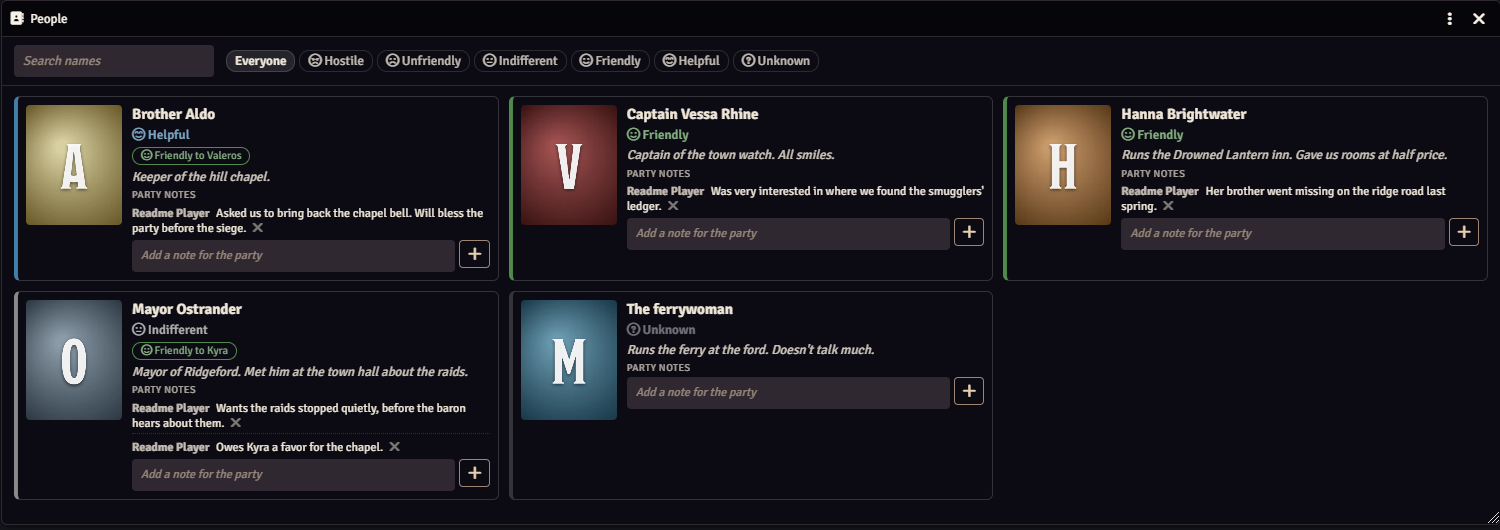
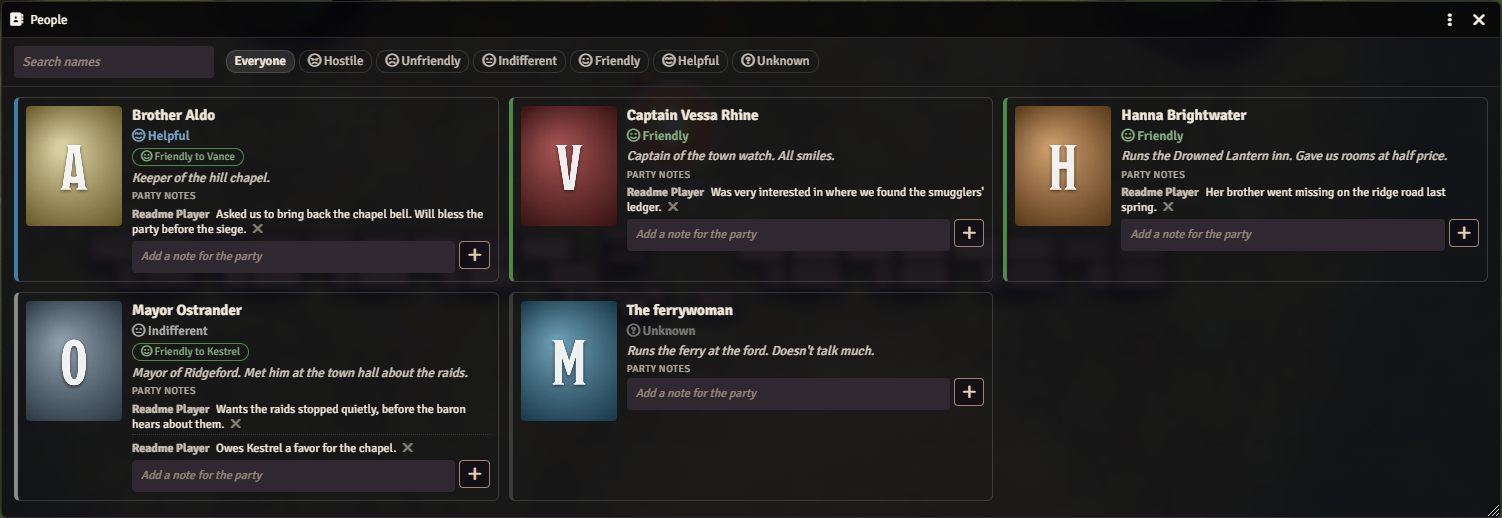
README: invented example names and new pictures; Pathfinder note replaces Community Use
Claude-Session: https://claude.ai/code/session_019VWK98TqAayb9sPMxWGaKx

diff --git a/README.md b/README.md
@@ -40,7 +40,7 @@ Token controls on the left: the address-book icon at the bottom of the list. Mac
 - **Chips**: "Met only" hides NPCs the party hasn't met; "Cast" shows only actors your campaign module marks as Cast: list that module's id in the "Cast flag scopes" setting (empty by default), and any actor with `flags.<id>.cast` set counts. Both are remembered in this browser.
 - Attitude is the NPC's real attitude. "Players see" is what the party is shown: the same, a different attitude (someone hiding how they feel), or Unknown. The GM sees both.
 - Setting Hostile when the NPC has tokens on the current scene that aren't Hostile asks whether to set those tokens' disposition to Hostile; Friendly or Helpful asks the same for Friendly. Nothing changes unless you say yes.
-- "Toward each character" sets how the NPC feels about one character in particular, when it differs from their general attitude: Unfriendly to Valeros but Helpful to Kyra. Leave a character on "As above" to use the general attitude. Players see these as small tags under the attitude, but only while "Players see" is "The same"; an NPC hiding how they feel shows the players nothing about individual characters either.
+- "Toward each character" sets how the NPC feels about one character in particular, when it differs from their general attitude: Unfriendly to Vance but Helpful to Kestrel. Leave a character on "As above" to use the general attitude. Players see these as small tags under the attitude, but only while "Players see" is "The same"; an NPC hiding how they feel shows the players nothing about individual characters either.
 - The one-line description is shown to players. Use it for who they are and where the party met them.
 - Click a portrait to open the NPC's sheet.
 
@@ -82,6 +82,6 @@ Open an [issue](https://github.com/Sir-Bayard/pf2e-npc-attitudes/issues).
 
 [MIT](LICENSE). Copyright (c) 2026 Sir Bayard.
 
-## Paizo Community Use
+## Pathfinder
 
-PF2e NPC Attitudes uses trademarks and/or copyrights owned by Paizo Inc., used under Paizo's Community Use Policy ([paizo.com/licenses/communityuse](https://paizo.com/licenses/communityuse)). We are expressly prohibited from charging you to use or access this content. PF2e NPC Attitudes is not published, endorsed, or specifically approved by Paizo. For more information about Paizo Inc. and Paizo products, visit [paizo.com](https://paizo.com).
+PF2e NPC Attitudes is an unofficial, free module for the Pathfinder Second Edition system on Foundry VTT. It is not published, endorsed or specifically approved by Paizo Inc. Pathfinder is a trademark of Paizo Inc., used here only to say which game the module works with. The module follows the game's rules, which Paizo publishes under the ORC License, and refers to them by name; it doesn't reproduce Paizo's rules text, art or setting material.
